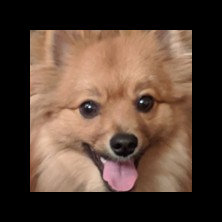
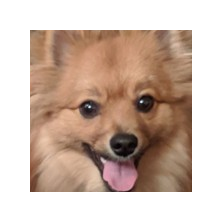
clab 2: change black border example to white border for better contrast against website background

diff --git a/staging_labs/clab2/spec.md b/staging_labs/clab2/spec.md
@@ -195,7 +195,7 @@ This is with a border of thickness 10 and RGB values 235, 64, 52:
 
 ![](dog.png) ![](dog_border1.png)
 
-This is with a border of thickness 30 and RGB values 0, 0, 0:
+This is with a border of thickness 30 and RGB values 255, 255, 255:
 
 ![](dog.png) ![](dog_border2.png)
 
